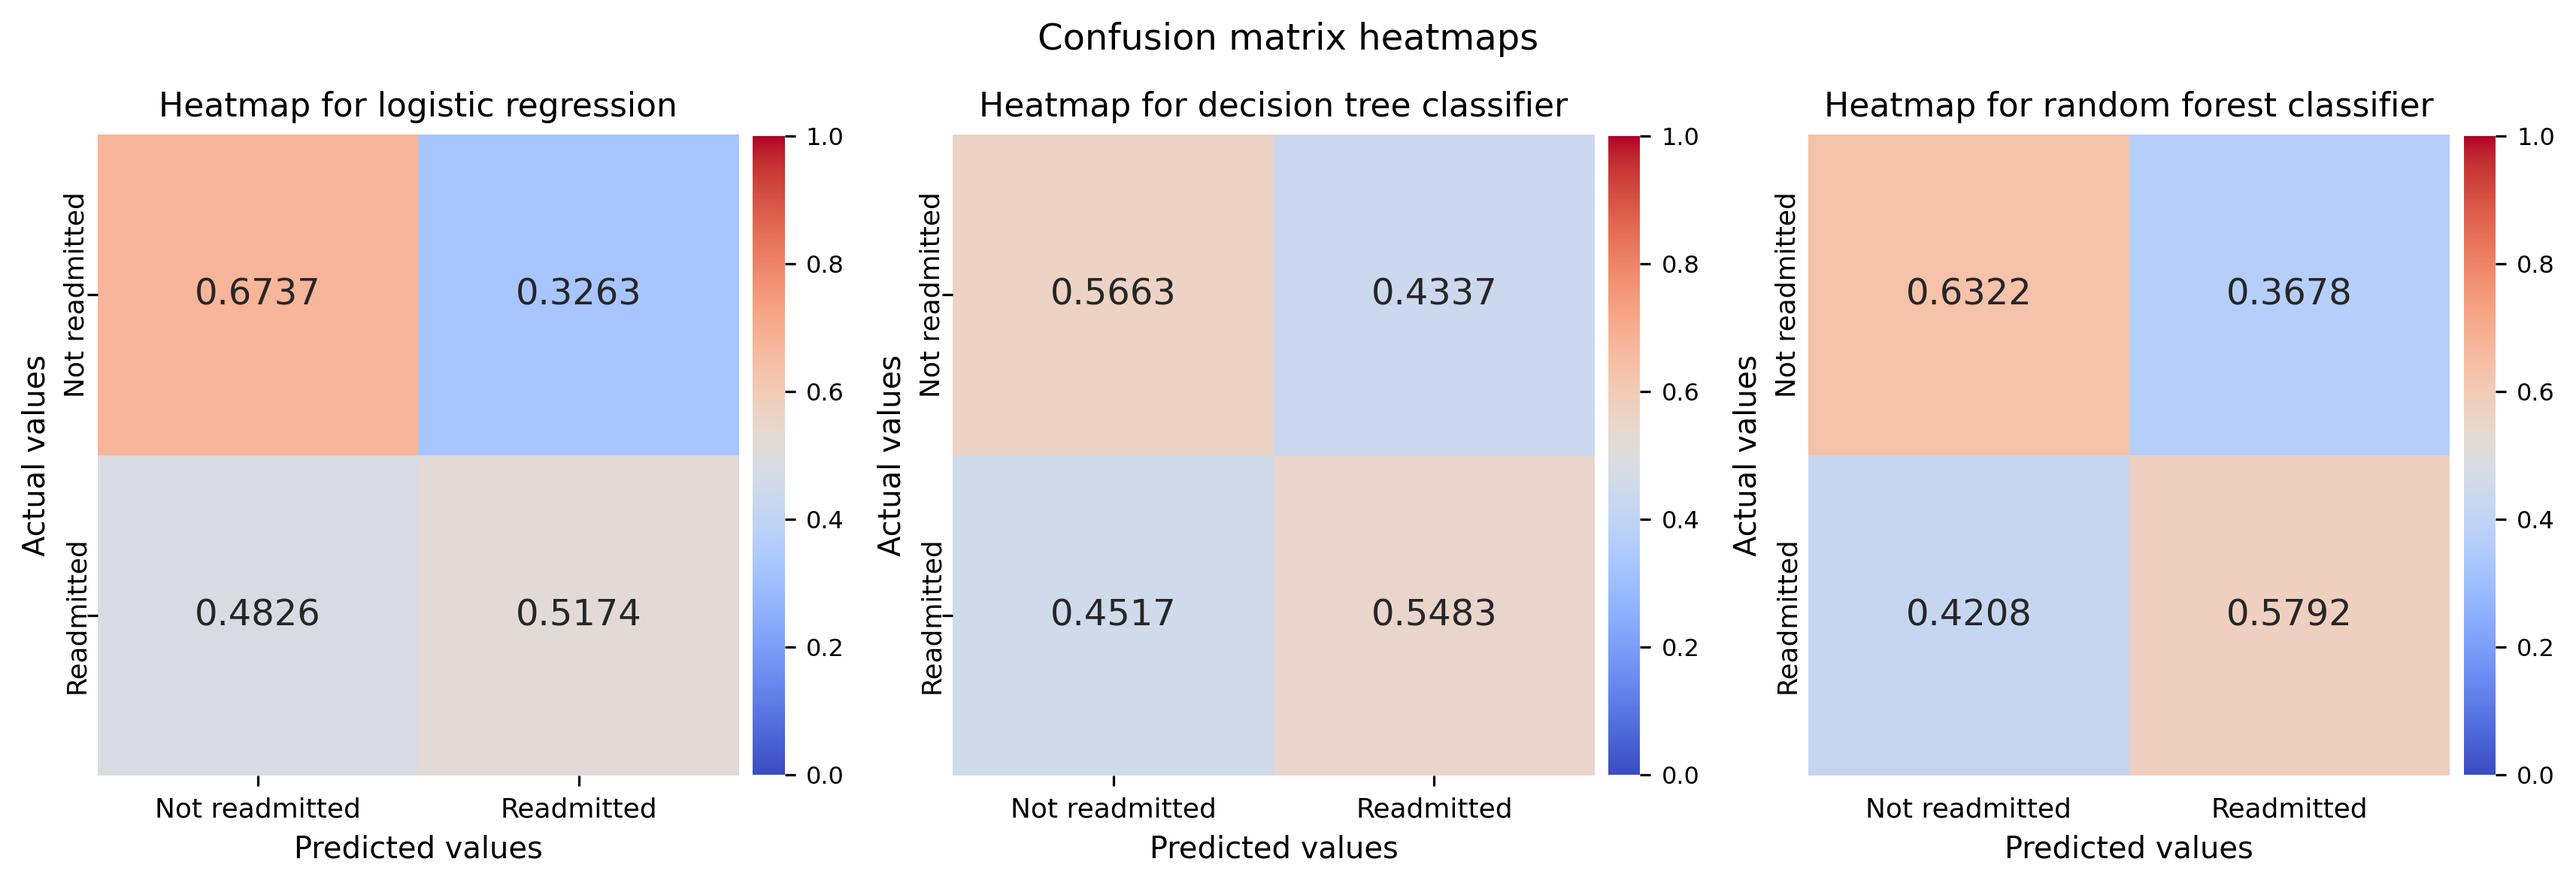
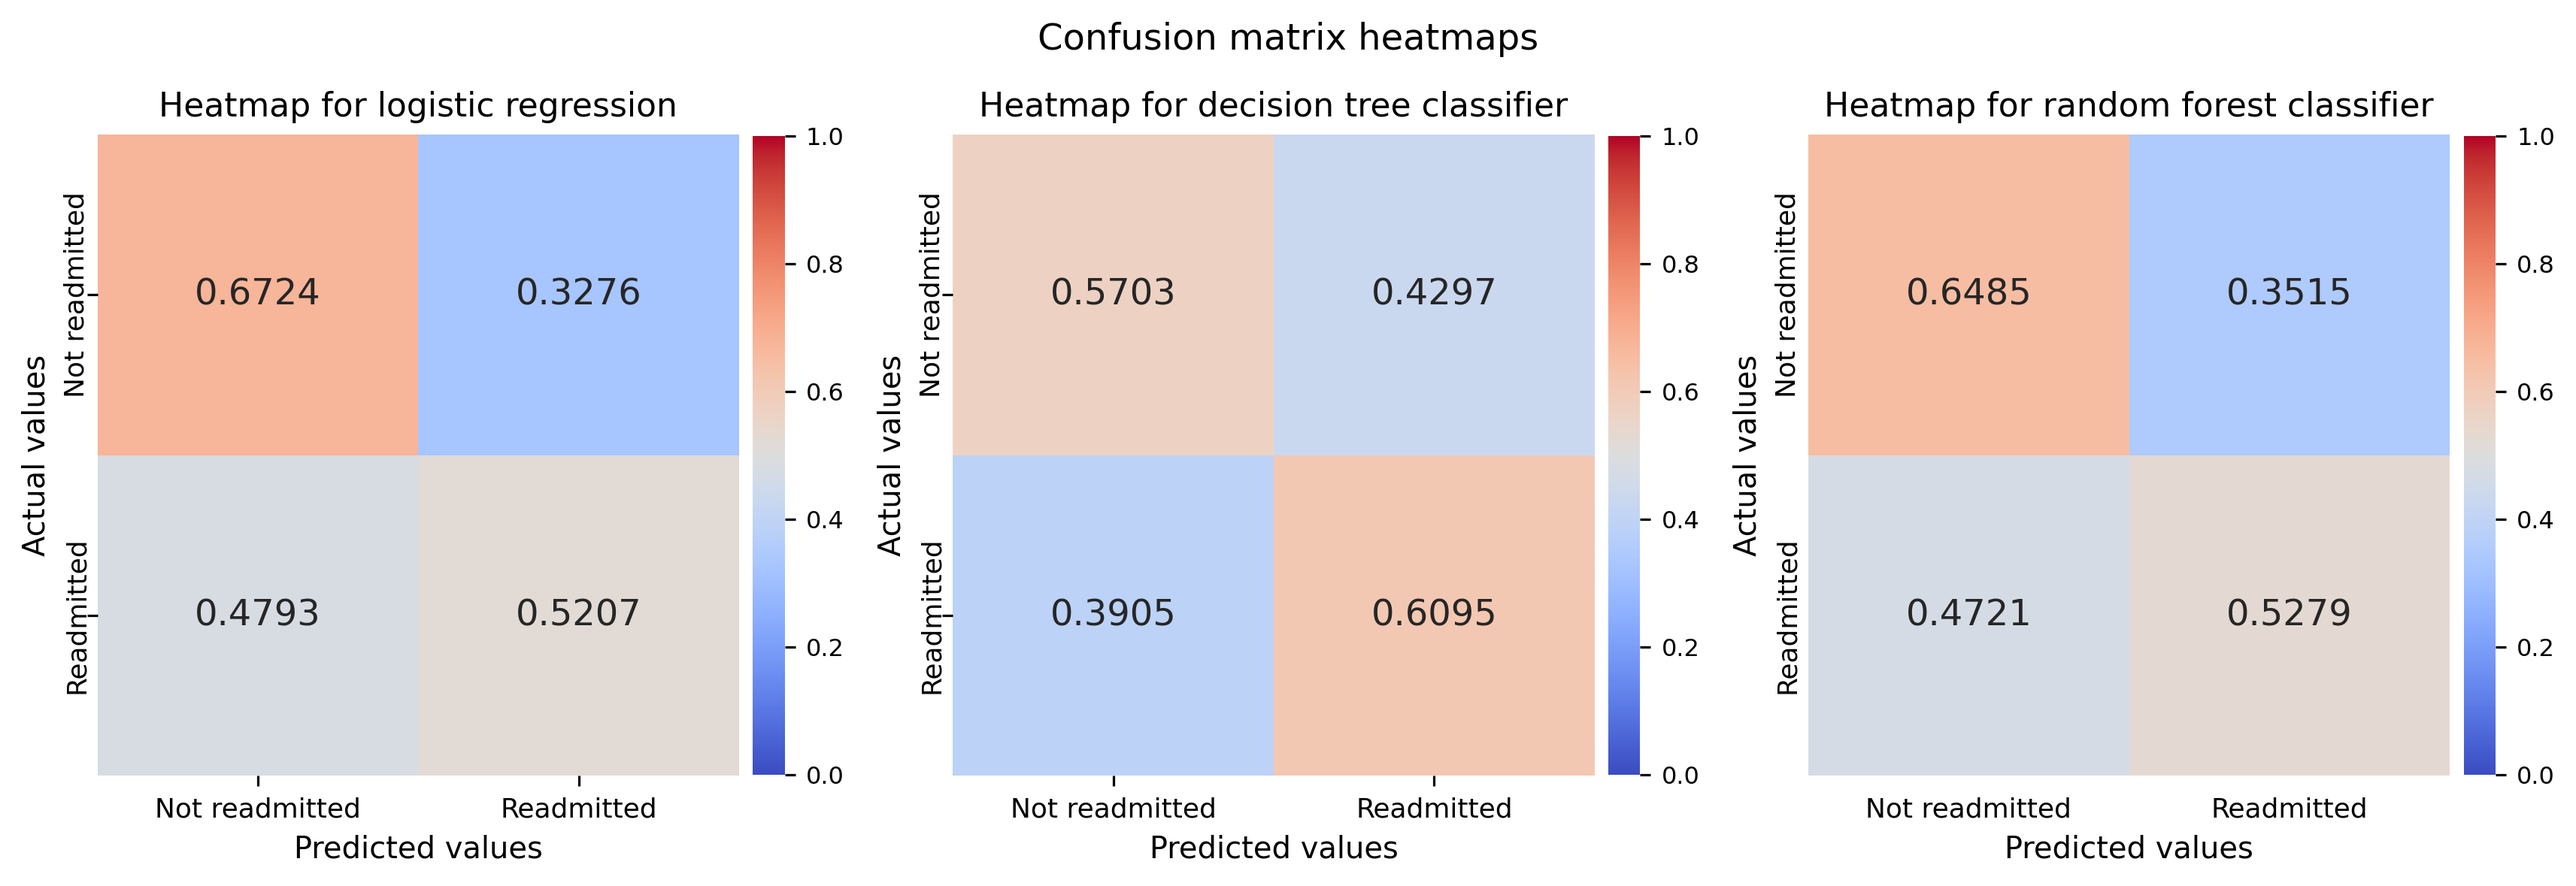
Using hyperparameters saved in JSON file from grid search optimization

diff --git a/modeling.py b/modeling.py
@@ -4,6 +4,7 @@ from time import time
 from pathlib import Path
 import pandas as pd
 import numpy as np
+import json
 from sklearn.compose import (make_column_selector,
                              make_column_transformer)
 from sklearn.preprocessing import StandardScaler, OneHotEncoder
@@ -73,18 +74,29 @@ def preprocessing_data(X_train, X_test):
 
 X_train_pp, X_test_pp = preprocessing_data(X_train, X_test)
 
+# load nested parameters from JSON file
+with open('params.json', 'r') as f:
+    model_params = json.load(f)
+
 # testing several data science algorithms
 model_dict = {
-    "Logistic regression": LogisticRegression(n_jobs=-1, C=1e2,
-                                              solver="newton-cholesky",
-                                              random_state=0,),
-    "Decision tree classifier": DecisionTreeClassifier(max_depth=16,
-                                                       random_state=0,),
-    "Random forest classifier": RandomForestClassifier(n_jobs=-1,
-                                                       random_state=0,
-                                                       max_depth=16,
-                                                       n_estimators=160,),
-}
+    'Logistic regression': LogisticRegression(
+        n_jobs=-1,
+        C=model_params['params_lr']['C'],
+        solver='newton-cholesky'
+        ),
+    'Decision tree classifier': DecisionTreeClassifier(
+        max_depth=model_params['params_dt']['max_depth'],
+        min_samples_split=model_params['params_dt']['min_samples_split'],
+        random_state=model_params['params_dt']['random_state'],
+        ),
+    'Random forest classifier': RandomForestClassifier(
+        n_jobs=-1,
+        n_estimators=model_params['params_rf']['n_estimators'],
+        max_depth=model_params['params_rf']['max_depth'],
+        random_state=model_params['params_rf']['random_state'],
+        )
+    }
 
 # calculating balanced accuracy, confusion matrix, classification report
 # roc curve and auc values, and average Brier score
